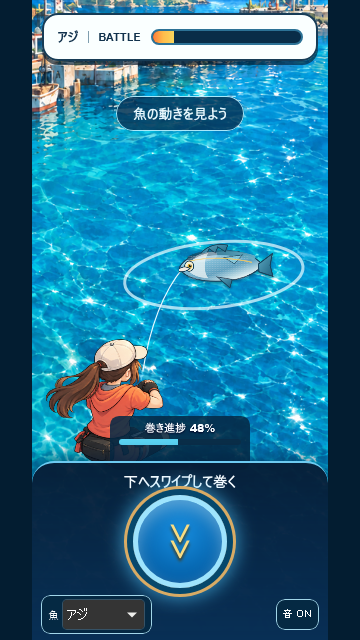
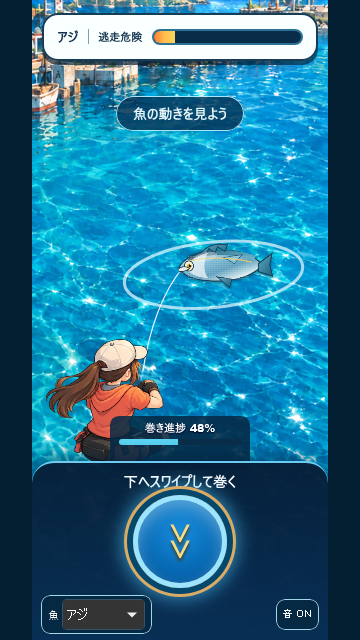
Clarify fishing battle danger and small-screen controls

diff --git a/fishing-battle/style.css b/fishing-battle/style.css
@@ -1,2 +1,3 @@
 :root{font-family:system-ui,"Hiragino Kaku Gothic ProN",sans-serif;color:#f7fcff;background:#031d31}*{box-sizing:border-box}body{margin:0}.game{height:100dvh;display:grid;place-items:center}.board{position:relative;width:min(100vw,calc(100dvh * 390 / 844));height:min(100dvh,calc(100vw * 844 / 390));overflow:hidden;background:#0579aa url('./assets/harbor-water.png') center/100% 100% no-repeat;touch-action:none}canvas{position:absolute;inset:0;width:100%;height:100%}.top{position:absolute;z-index:2;top:2%;left:3.5%;width:93%;height:6.5%;min-height:48px;display:flex;align-items:center;gap:10px;padding:0 13px;background:#faffff;border:2px solid #173c56;border-radius:16px;box-shadow:0 4px 0 #001b32a6;color:#12324d}.fish-name{font-size:clamp(13px,3.5vw,18px);font-weight:800;white-space:nowrap}.top strong{font-size:11px;border-left:1px solid #7f9eaf;padding-left:9px}.track{height:16px;background:#092d48;border:2px solid #2c7296;border-radius:30px;overflow:hidden}.top .track{flex:1}.track i{display:block;height:100%;width:0;transition:width .12s}.danger i{background:linear-gradient(90deg,#ff7d39,#ffbd4b,#f9d55c)}.progress{position:absolute;top:67%;left:50%;transform:translateX(-50%);z-index:2;min-width:140px;padding:4px 9px 7px;background:#052944dc;border-radius:9px;text-align:center;font-size:11px;font-weight:800;text-shadow:0 1px 2px #002}.progress .track{height:6px;border:0;margin-top:4px}.progress .track i{background:#5bd5f5}#action{display:block;min-height:1.4em;margin-top:3px;color:#d9faff;font-size:11px}#action.danger-action{color:#ffd0aa}#action.good-action{color:#d2ffef}.cue{position:absolute;z-index:3;top:15%;left:50%;transform:translateX(-50%);width:max-content;max-width:90%;padding:7px 16px;border-radius:30px;background:#062e50d9;border:1px solid #b4effe;text-align:center;font-size:14px;font-weight:900;opacity:.92;transition:opacity .16s}.cue.warning{background:#8c5322ef;border-color:#ffe3a9}.cue.rage{background:#b82728e9;border-color:#ffc7ae}.cue.opening{background:#055679e9}.controls{position:absolute;z-index:3;bottom:0;left:0;width:100%;height:26%;min-height:150px;display:flex;flex-direction:column;align-items:center;justify-content:flex-start;background:linear-gradient(#061d36f5,#082f55);border-top:2px solid #6dcaf1;border-radius:22px 22px 0 0;box-shadow:0 -5px 18px #001d3b88}.controls p{font-size:clamp(13px,4vw,17px);font-weight:900;margin:13px 0 5px;text-align:center}#reel{width:min(35vw,145px);height:min(35vw,145px);min-width:105px;min-height:105px;border-radius:50%;border:5px solid #9ee4fd;background:radial-gradient(circle at 50% 38%,#178dde,#0361aa 70%,#063c77);box-shadow:0 0 0 6px #06486c,0 0 0 9px #d9ab64,0 0 18px 11px #51caff99,inset 0 7px 16px #c1ebff70;color:#f9dc82;touch-action:none;cursor:pointer}#reel span{display:block;font-size:54px;line-height:.38;transform:translateY(-10px);text-shadow:0 3px 3px #453917}#reel:active{transform:scale(.96)}#rageLabel{margin-top:32px;background:#e6493b;border-radius:11px;padding:12px 18px;font-weight:900}#rageLabel[hidden]{display:none}.controls.is-raging #reel{display:none}.settings{position:absolute;z-index:4;bottom:1%;left:3%;right:3%;display:flex;justify-content:space-between;align-items:center;pointer-events:none}.settings>*{pointer-events:auto}.settings label,.settings button{background:#052841d9;border:1px solid #a2d6e9;border-radius:9px;color:#fff;font-size:11px;padding:3px 6px}.settings select{background:#052841;color:#fff;color-scheme:dark;border:0;max-width:105px}.settings button,.settings select{min-height:31px}.result{position:absolute;z-index:8;inset:0;background:#03253cdb;display:flex;flex-direction:column;align-items:center;justify-content:center;text-align:center;padding:25px}.result[hidden]{display:none}.result h1{font-size:clamp(26px,7vw,36px)}.result p{font-size:15px;line-height:1.7}.result button{min-height:48px;border:0;border-radius:30px;background:#f8d692;color:#162d3a;font:inherit;font-weight:900;padding:10px 32px;cursor:pointer}@media(max-height:700px){.controls{height:28%}.controls p{margin:8px 0 4px}#reel{min-width:88px;min-height:88px;width:26vw;height:26vw}#reel span{font-size:42px}.progress{top:65%}}@media(prefers-reduced-motion:reduce){*,*:before,*:after{animation-duration:.001ms!important;transition-duration:.001ms!important}}
 .result img{display:block;width:min(55%,200px);max-height:120px;filter:drop-shadow(0 10px 16px #001d2f);transform:rotate(-12deg);margin-bottom:8px}.result img[hidden]{display:none}
+.top.critical{border-color:#c64732;box-shadow:0 4px 0 #001b32a6,0 0 0 3px #ffbd6c}.top.critical strong{color:#b52424}.top.critical .danger i{background:linear-gradient(90deg,#e94037,#b61d28)}@media(max-height:600px){.controls p{margin:6px 0 2px}#reel{min-width:76px;min-height:76px;width:26vw;height:26vw}#reel span{font-size:36px}}

diff --git a/fishing-battle/game.js b/fishing-battle/game.js
@@ -47,12 +47,16 @@ function feedback(events) {
 }
 function syncUI() {
   const cue = battleCue(state), fish = FISH[state.fishId];
+  const critical = state.escape >= 70;
   if ($('fishName').textContent !== fish.name) $('fishName').textContent = fish.name;
   $('dangerFill').style.width = `${state.escape}%`;
+  $('danger').setAttribute('aria-valuenow', String(Math.round(state.escape)));
+  $('dangerLabel').textContent = critical ? '逃走寸前' : '逃走危険';
+  document.querySelector('.top').classList.toggle('critical', critical);
   $('progressFill').style.width = `${state.reel}%`;
   $('progressValue').textContent = `${Math.round(state.reel)}%`;
   $('cue').className = `cue ${cue}`;
-  const cueText = cue === 'rage' ? '魚が走った！ 手を止めて' : cue === 'opening' ? '糸がゆるんだ！ いま巻く' : cue === 'warning' ? '糸が張る… もうすぐ走る' : '魚の動きを見よう';
+  const cueText = cue === 'rage' ? critical ? '逃げそう！ 手を止めて' : '魚が走った！ 手を止めて' : cue === 'opening' ? '糸がゆるんだ！ いま巻く' : cue === 'warning' ? '糸が張る… もうすぐ走る' : critical ? '逃げそう！ いま巻く' : '魚の動きを見よう';
   if ($('cue').textContent !== cueText) $('cue').textContent = cueText;
   document.querySelector('.controls').classList.toggle('is-raging', cue === 'rage');
   $('rageLabel').hidden = cue !== 'rage';

diff --git a/fishing-battle/index.html b/fishing-battle/index.html
@@ -2,7 +2,7 @@
 <html lang="ja"><head><meta charset="utf-8"><meta name="viewport" content="width=device-width,initial-scale=1,viewport-fit=cover"><meta name="theme-color" content="#052c48"><title>AINAN 釣りバトル試作</title><link rel="stylesheet" href="./style.css"></head>
 <body><main class="game"><section class="board" aria-label="釣りバトル">
   <canvas id="sea" aria-hidden="true"></canvas>
-  <div class="top"><span class="fish-name" id="fishName">アジ</span><strong>BATTLE</strong><div class="track danger" aria-label="魚の逃走危険度"><i id="dangerFill"></i></div></div>
+  <div class="top"><span class="fish-name" id="fishName">アジ</span><strong id="dangerLabel">逃走危険</strong><div class="track danger" id="danger" role="progressbar" aria-label="魚の逃走危険度" aria-valuemin="0" aria-valuemax="100" aria-valuenow="14"><i id="dangerFill"></i></div></div>
   <div class="progress" aria-label="巻き進捗">巻き進捗 <b id="progressValue">48%</b><div class="track"><i id="progressFill"></i></div><span id="action" aria-live="polite"></span></div>
   <div class="cue" id="cue" role="status" aria-live="polite">魚の動きを見よう</div>
   <div class="result" id="result" hidden><img id="resultFish" alt="" hidden><h1 id="resultTitle"></h1><p id="resultText"></p><button id="retry">もう一度</button></div>
